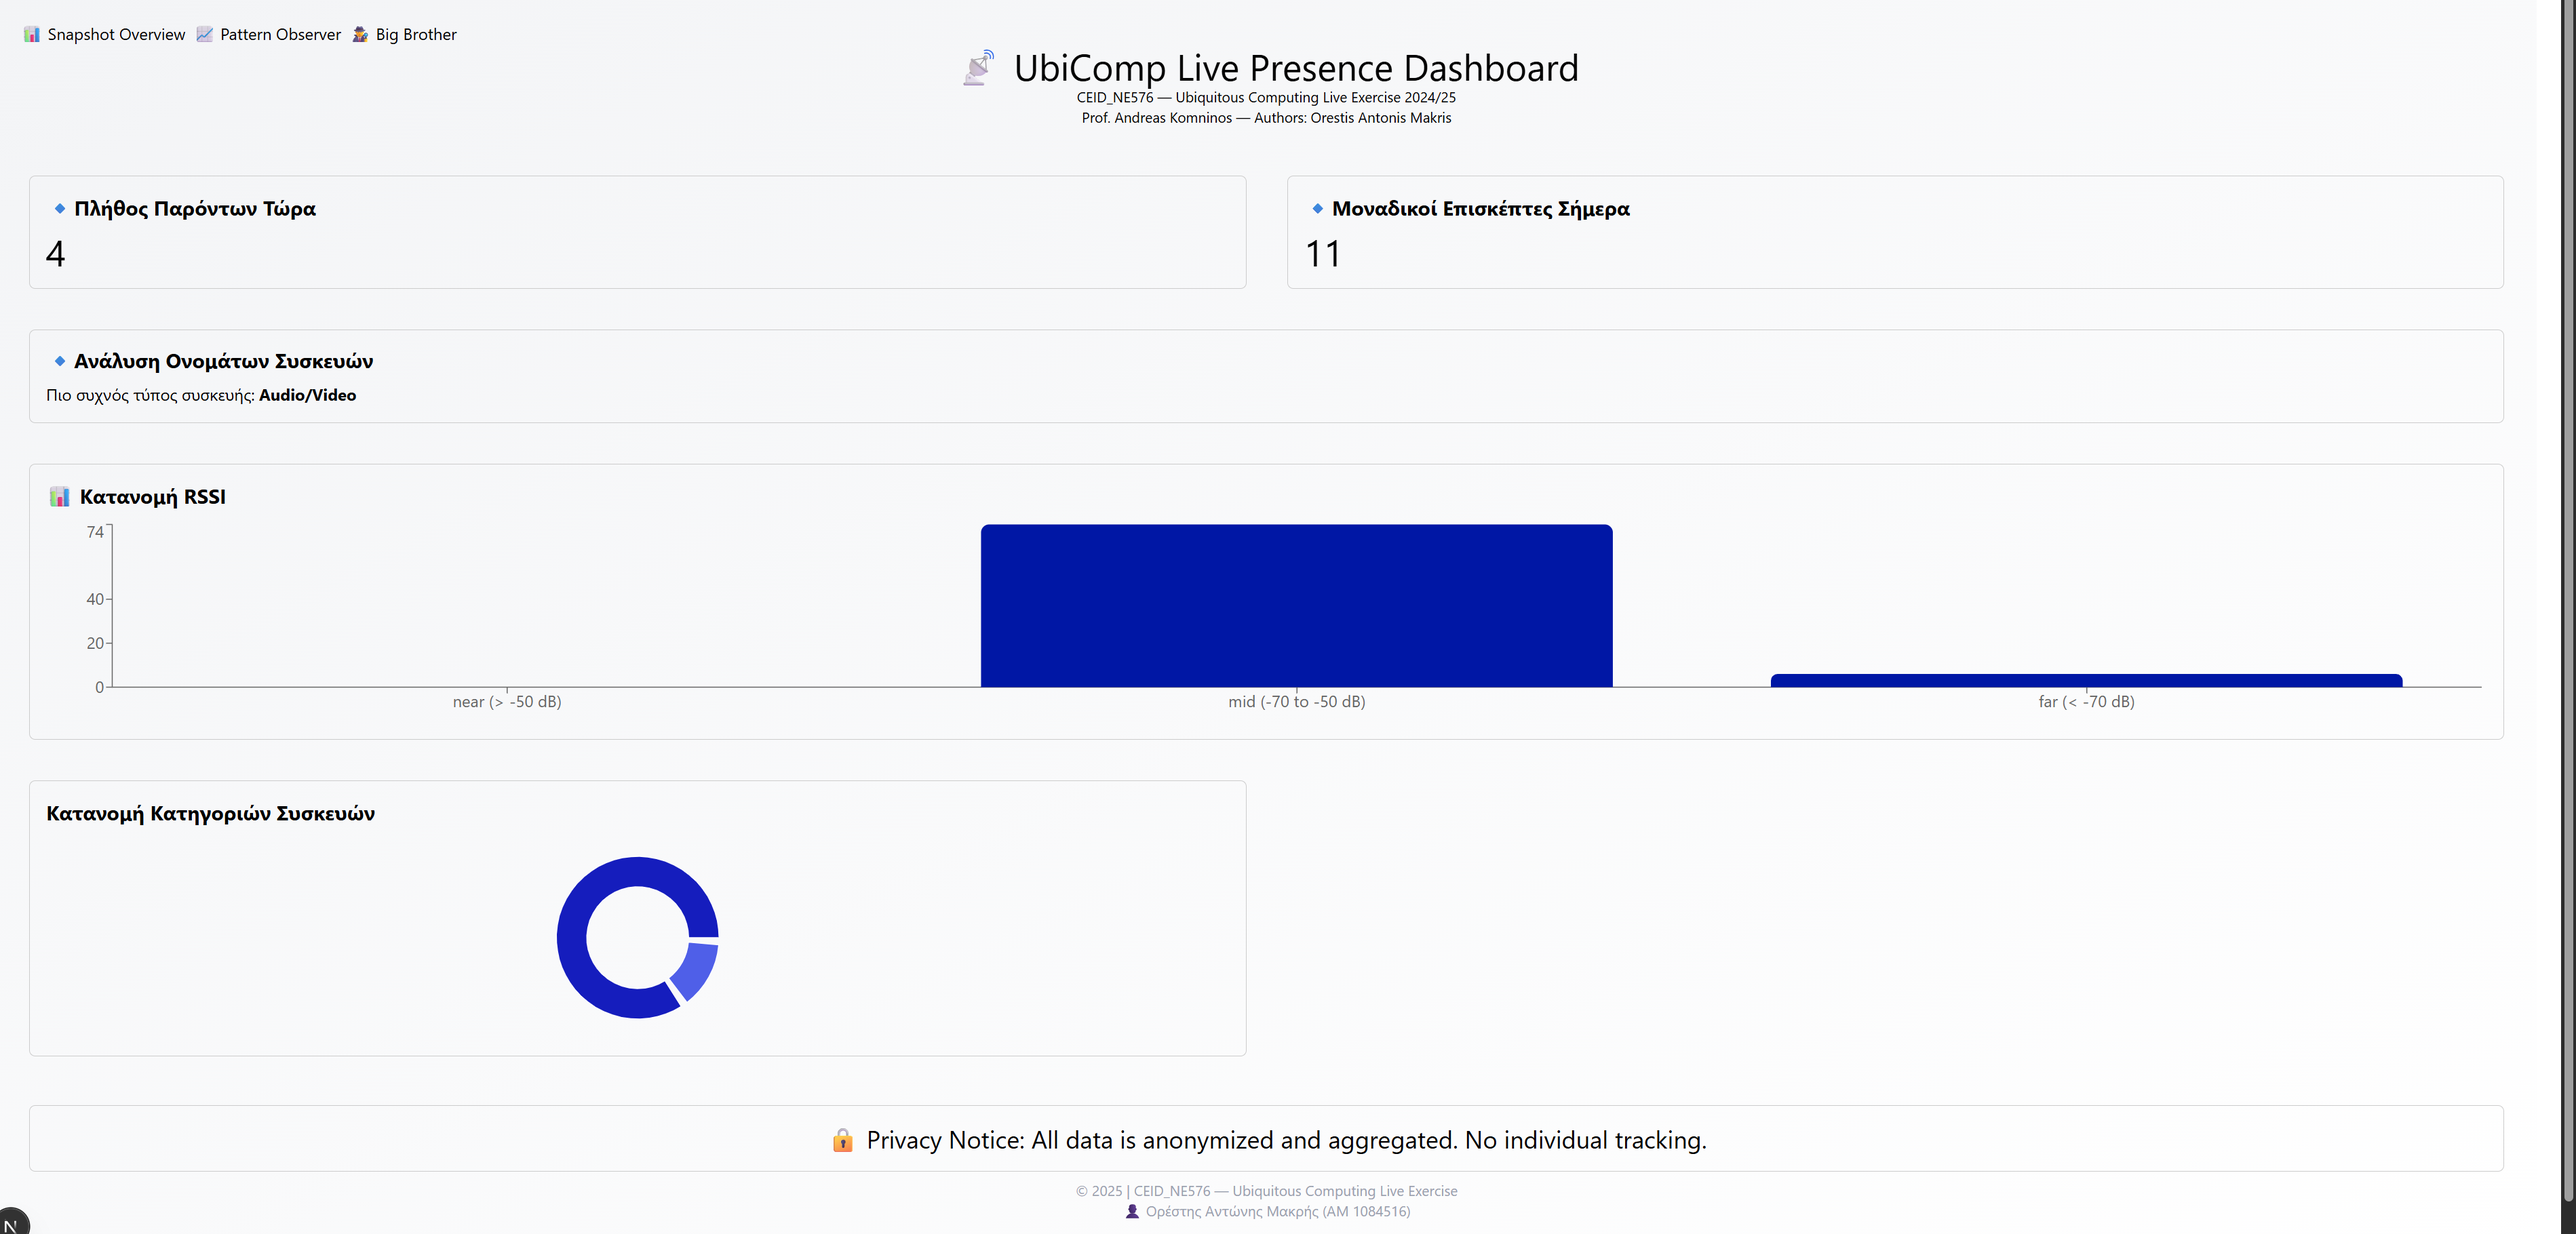
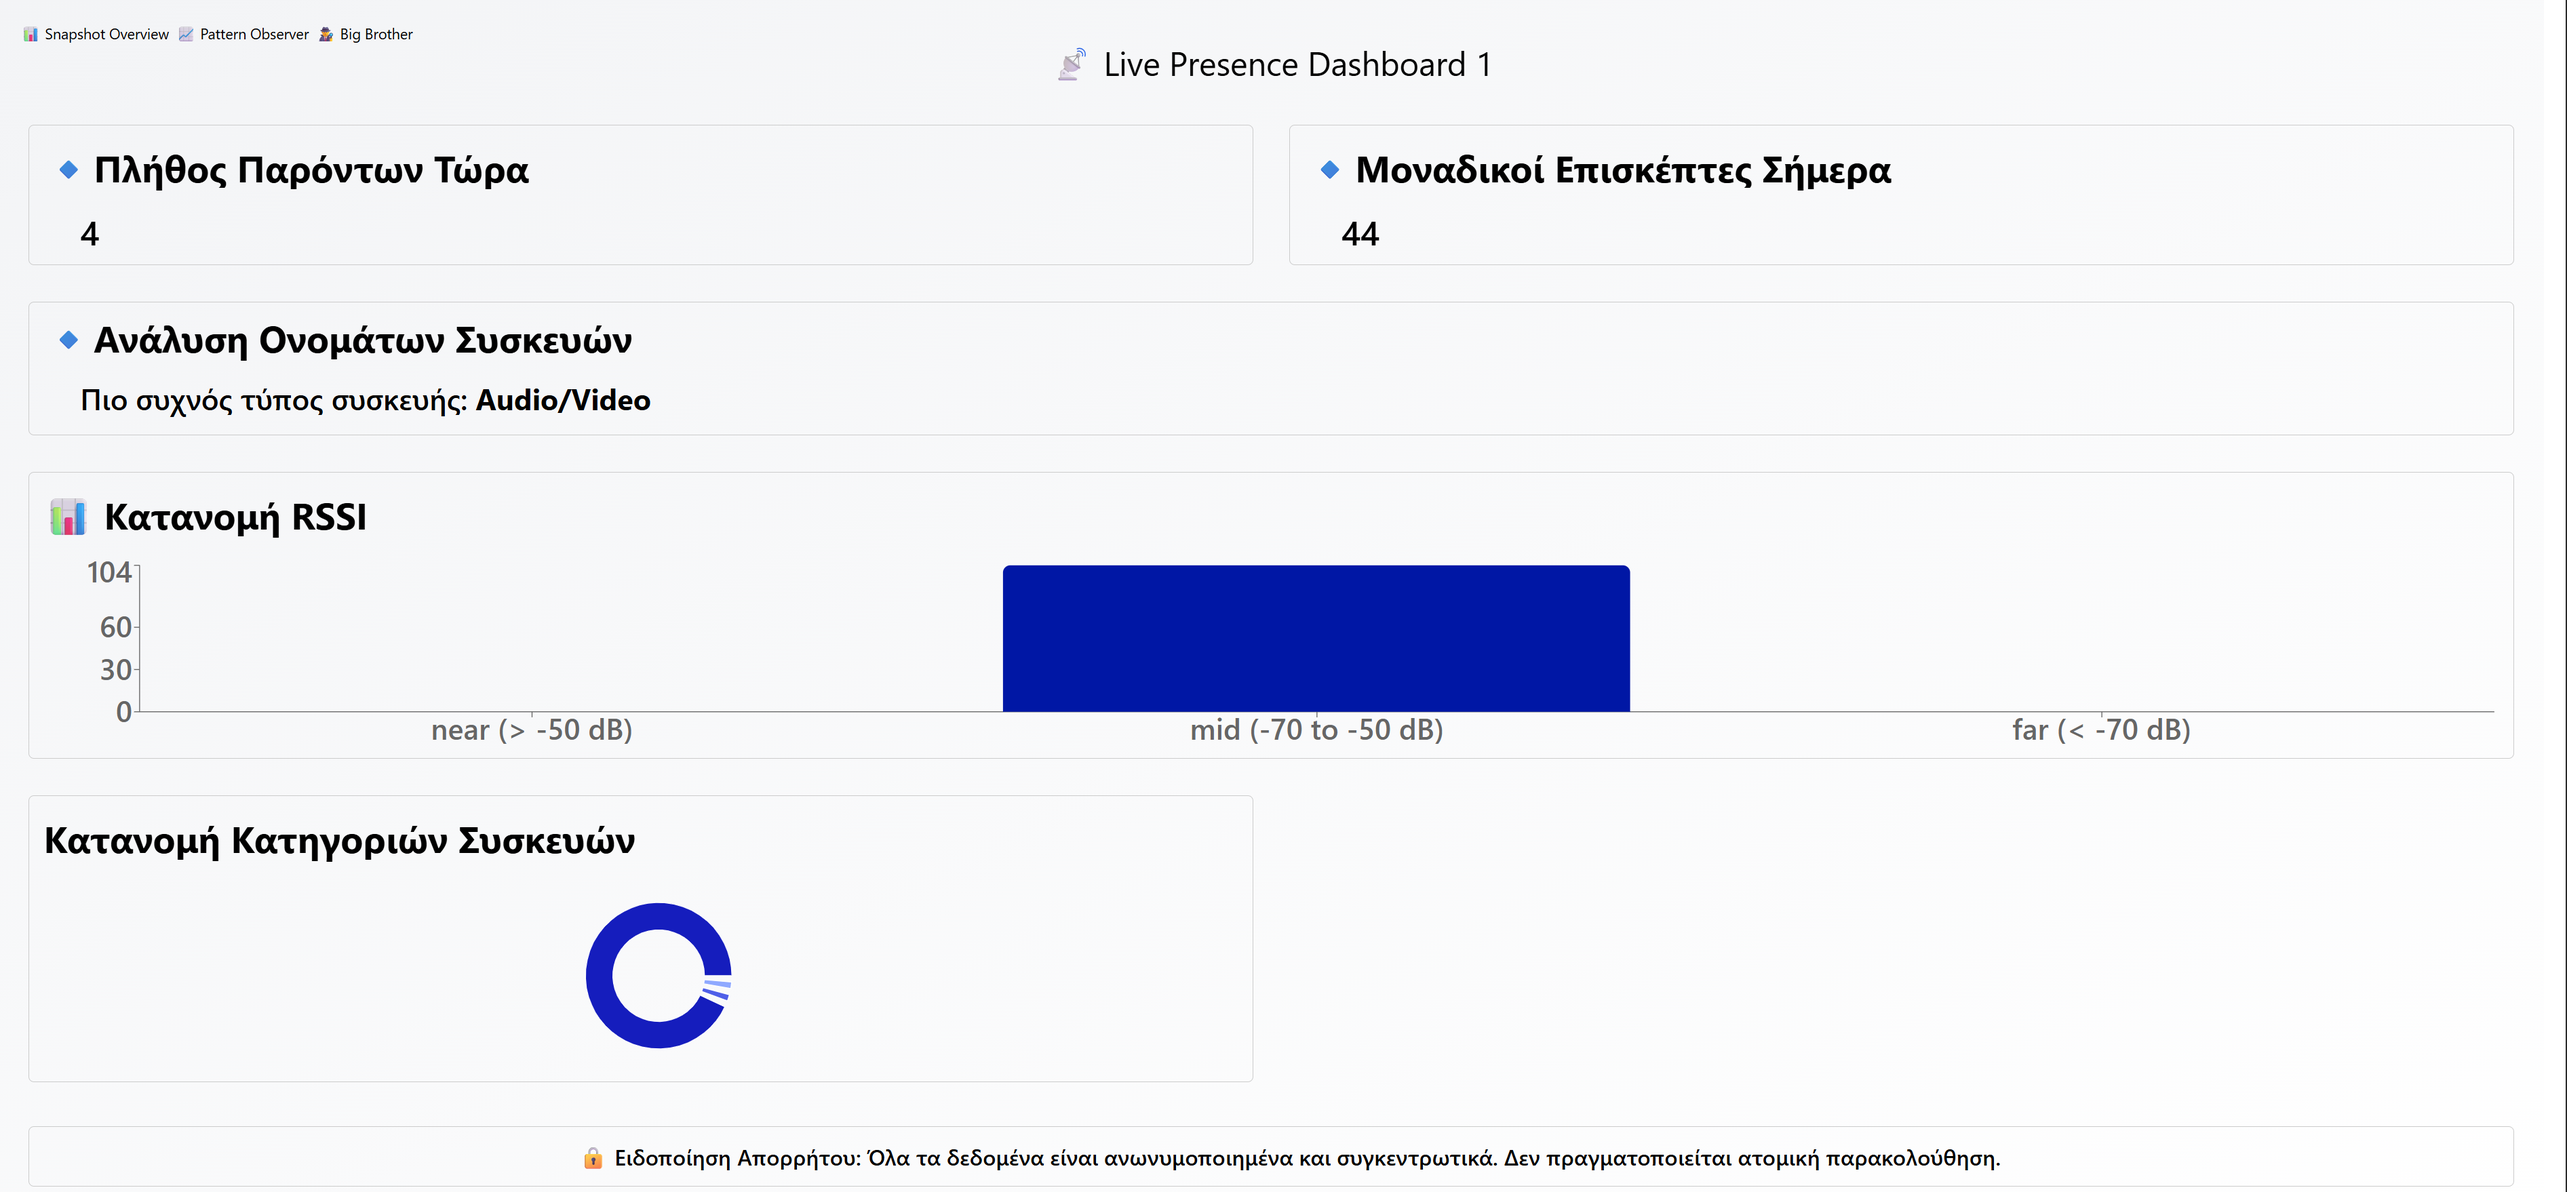
Implement structural updates and optimizations across multiple modules

diff --git a/ubicomp-dashboard/components/DashboardOne.js b/ubicomp-dashboard/components/DashboardOne.js
@@ -37,9 +37,12 @@ export default function DashboardOne() {
   return (
     <div className="space-y-10">
       <header className="text-center py-6">
-        <p className="text-4xl text-[#0017a5] font-extrabold">
-          📡 Live Presence Dashboard 1
-        </p>
+        <div className="flex justify-center items-center gap-4">
+          <Image src="/logo.png" alt="Logo" width={50} height={50} />
+          <p className="text-4xl text-[#0017a5] font-extrabold">
+            📡 Live Presence Dashboard 1
+          </p>
+        </div>
       </header>
 
       <div className="grid grid-cols-1 md:grid-cols-2 gap-6">

diff --git a/ubicomp-dashboard/pages/index.js b/ubicomp-dashboard/pages/index.js
@@ -7,6 +7,7 @@ export default function Home() {
 
       <Head>
         <title>UbiComp Dashboards</title>
+        <link rel="icon" href="/logo.png" />
       </Head>
       <main className="container mx-auto p-6">
         {/**/}
